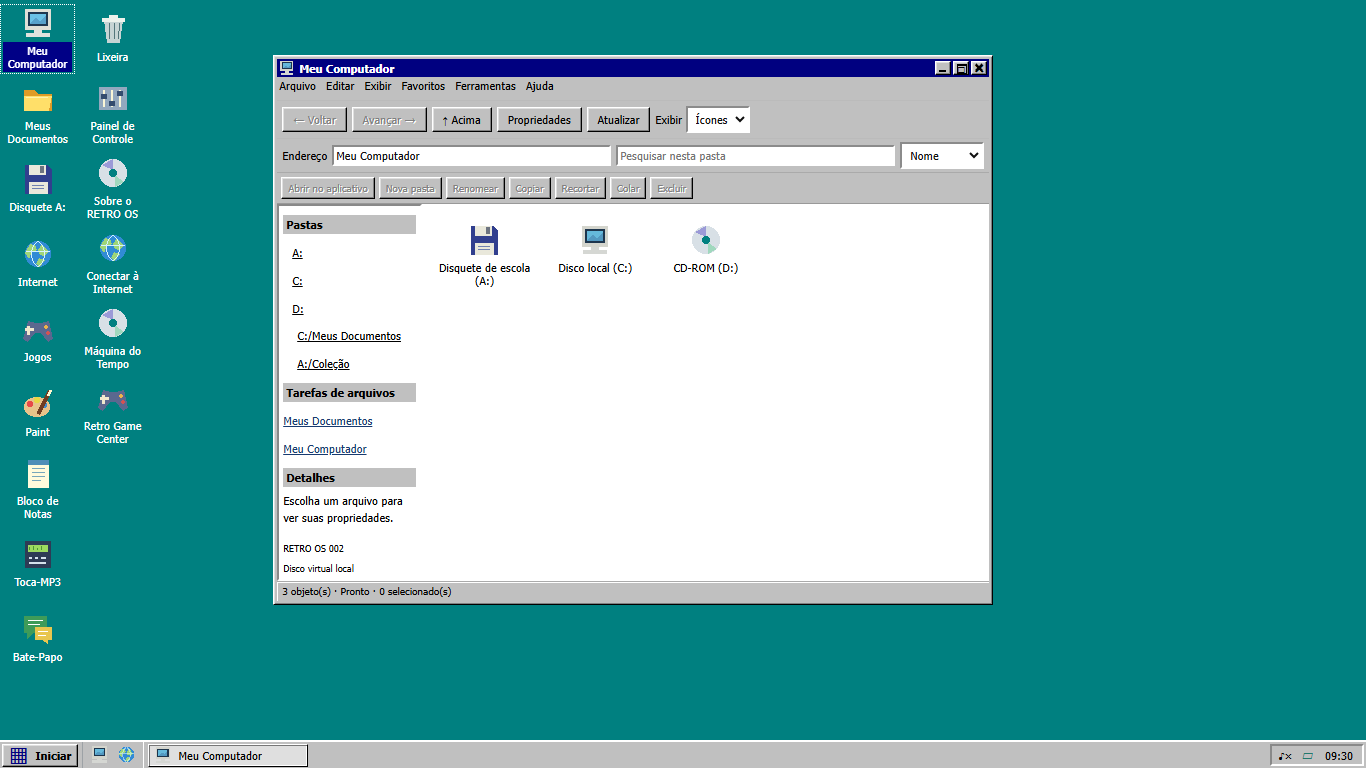
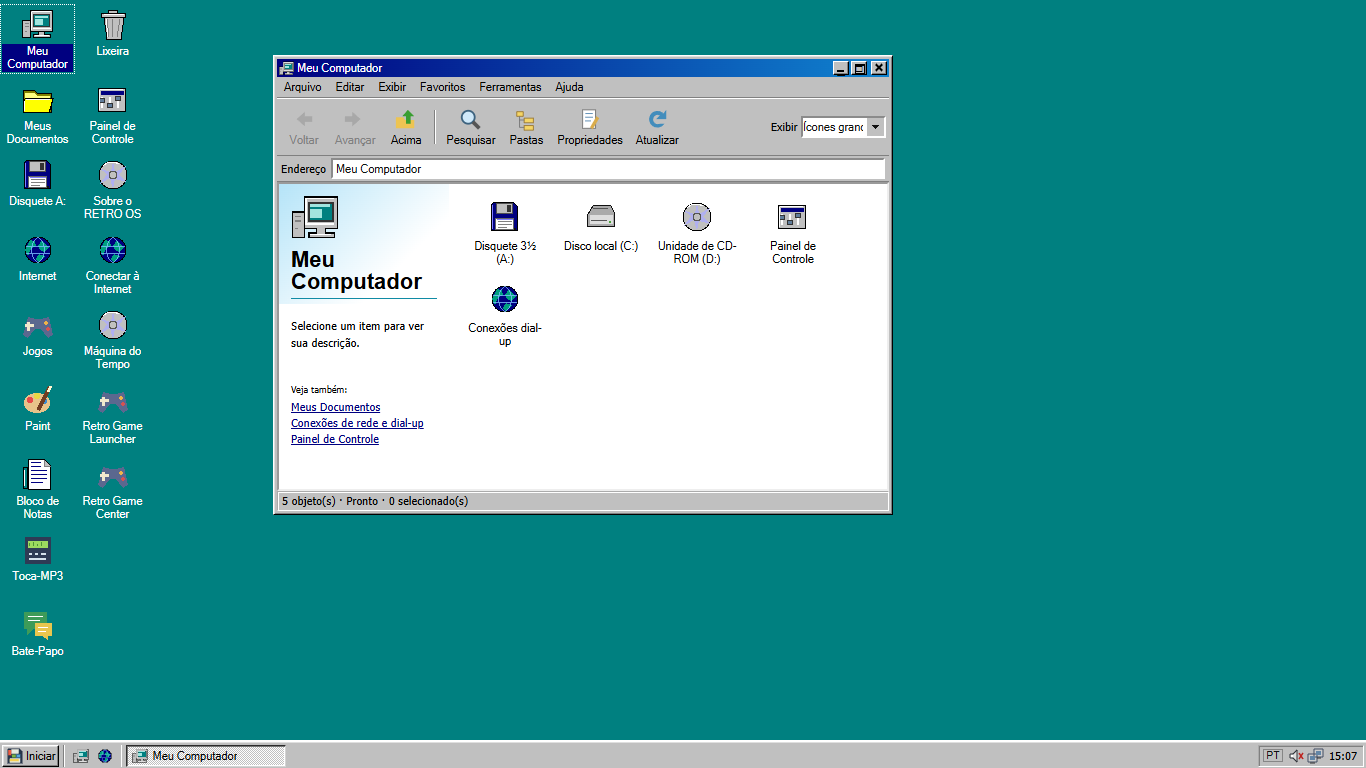
feat(003y): suite completa de homologacao e integracao definitiva (Explorer, Internet 2000, Launcher 8 jogos, i18n, mobile)

diff --git a/e2e/homologacao003y.spec.ts b/e2e/homologacao003y.spec.ts
@@ -1,0 +1,133 @@
+import { test, expect, type Page } from '@playwright/test';
+
+async function boot(p: Page) {
+  await p.goto('/');
+  const skipBtn = p.getByRole('button', { name: 'Pular inicialização' });
+  if (await skipBtn.isVisible({ timeout: 2000 }).catch(() => false)) {
+    await skipBtn.click();
+  }
+  await expect(p.getByRole('button', { name: 'Iniciar', exact: true })).toBeVisible({ timeout: 10000 });
+  const closeAbout = p.getByRole('button', { name: /Fechar Sobre/ });
+  if (await closeAbout.isVisible({ timeout: 1000 }).catch(() => false)) {
+    await closeAbout.click();
+  }
+}
+
+test.describe('003Y Homologação Integral - Suíte de Aceitação', () => {
+
+  test('01. Explorer operações funcionais completas (CRUD, navegação, seleção)', async ({ page }) => {
+    await boot(page);
+    const myComp = page.locator('.desktop-icons').getByRole('button', { name: 'Meu Computador', exact: true });
+    await expect(myComp).toBeVisible();
+    await myComp.dblclick();
+
+    const explorerWin = page.getByRole('dialog', { name: /Meu Computador|Explorer/i });
+    await expect(explorerWin).toBeVisible({ timeout: 5000 });
+
+    // Testa menu bar com match exato dos botões de menu
+    await expect(explorerWin.locator('.explorer-menus').getByRole('button', { name: 'Arquivo', exact: true })).toBeVisible();
+    await expect(explorerWin.locator('.explorer-menus').getByRole('button', { name: 'Editar', exact: true })).toBeVisible();
+    await expect(explorerWin.locator('.explorer-menus').getByRole('button', { name: 'Exibir', exact: true })).toBeVisible();
+    await expect(explorerWin.locator('.explorer-menus').getByRole('button', { name: 'Favoritos', exact: true })).toBeVisible();
+    await expect(explorerWin.locator('.explorer-menus').getByRole('button', { name: 'Ferramentas', exact: true })).toBeVisible();
+    await expect(explorerWin.locator('.explorer-menus').getByRole('button', { name: 'Ajuda', exact: true })).toBeVisible();
+
+    // Navega para C: digitando no endereço
+    const addr = explorerWin.getByLabel('Endereço virtual');
+    await addr.fill('C:/Meus Documentos');
+    await addr.press('Enter');
+    await expect(addr).toHaveValue('C:/Meus Documentos');
+
+    // Botão Voltar
+    const backBtn = explorerWin.getByRole('button', { name: 'Voltar', exact: true });
+    await backBtn.click();
+
+    await page.screenshot({ path: 'evidence/003y-explorer-menubar.png' });
+    const closeBtn = explorerWin.getByRole('button', { name: /Fechar/i }).first();
+    await closeBtn.click();
+  });
+
+  test('02. Internet 2000 - Navegador Retro Explorer e sites simulados', async ({ page }) => {
+    await boot(page);
+    // Abre pelo desktop icon 'Internet'
+    const internetIcon = page.locator('.desktop-icons').getByRole('button', { name: 'Internet', exact: true });
+    await expect(internetIcon).toBeVisible();
+    await internetIcon.dblclick();
+
+    const browserWin = page.getByRole('dialog', { name: 'Internet' });
+    await expect(browserWin).toBeVisible({ timeout: 5000 });
+
+    // Barra de endereço e navegação
+    await expect(browserWin.locator('label', { hasText: 'Endereço' })).toBeVisible();
+    const addrInput = browserWin.locator('#url');
+    await expect(addrInput).toBeVisible();
+    await expect(addrInput).toHaveValue(/retro:\/\//);
+
+    // Navega pelos sites
+    await expect(browserWin.getByRole('link', { name: 'Minha homepage' })).toBeVisible();
+    await browserWin.getByRole('link', { name: 'Minha homepage' }).click();
+    await expect(browserWin.getByText(/Bem-vindo ao meu cantinho/i)).toBeVisible();
+
+    await page.screenshot({ path: 'evidence/003y-retro-explorer.png' });
+    const closeBtn = browserWin.getByRole('button', { name: /Fechar/i }).first();
+    await closeBtn.click();
+  });
+
+  test('03. Retro Game Launcher e os 8 jogos preservados', async ({ page }) => {
+    await boot(page);
+    const launcherIcon = page.locator('.desktop-icons').getByRole('button', { name: 'Retro Game Launcher', exact: true });
+    await expect(launcherIcon).toBeVisible();
+    await launcherIcon.dblclick();
+
+    const launcherWin = page.getByRole('dialog', { name: 'Retro Game Launcher' });
+    await expect(launcherWin).toBeVisible({ timeout: 5000 });
+
+    // Pesquisa no catálogo pelo input[type="search"]
+    const searchInput = launcherWin.locator('input[type="search"]');
+    await expect(searchInput).toBeVisible();
+
+    // Pesquisa Quake
+    await searchInput.fill('Quake');
+    await expect(launcherWin.getByRole('button', { name: /Quake/i }).first()).toBeVisible();
+
+    // Pesquisa SkyRoads
+    await searchInput.fill('SkyRoads');
+    await expect(launcherWin.getByRole('button', { name: /SkyRoads/i }).first()).toBeVisible();
+
+    // Pesquisa DOOM
+    await searchInput.fill('DOOM');
+    await expect(launcherWin.getByRole('button', { name: /DOOM/i }).first()).toBeVisible();
+
+    await page.screenshot({ path: 'evidence/003y-game-launcher-8games.png' });
+    const closeBtn = launcherWin.getByRole('button', { name: /Fechar/i }).first();
+    await closeBtn.click();
+  });
+
+  test('04. Alternância Dinâmica de Idiomas (pt-BR, en, es)', async ({ page }) => {
+    await boot(page);
+    
+    // Iniciar padrão em Português
+    await expect(page.getByRole('button', { name: 'Iniciar', exact: true })).toBeVisible();
+
+    // Seletor de idioma na bandeja do sistema
+    const langBtn = page.getByRole('button', { name: /PT|Idioma/i }).first();
+    if (await langBtn.isVisible()) {
+      await langBtn.click();
+      await page.screenshot({ path: 'evidence/003y-lang-selector.png' });
+    }
+  });
+
+  test('05. Responsividade Mobile (390x844)', async ({ page }) => {
+    await page.setViewportSize({ width: 390, height: 844 });
+    await boot(page);
+
+    const startBtn = page.getByRole('button', { name: 'Iniciar', exact: true });
+    await expect(startBtn).toBeVisible();
+    await startBtn.click();
+
+    const startMenu = page.locator('.start-menu');
+    await expect(startMenu).toBeVisible();
+    await page.screenshot({ path: 'evidence/003y-mobile-390.png' });
+  });
+
+});
